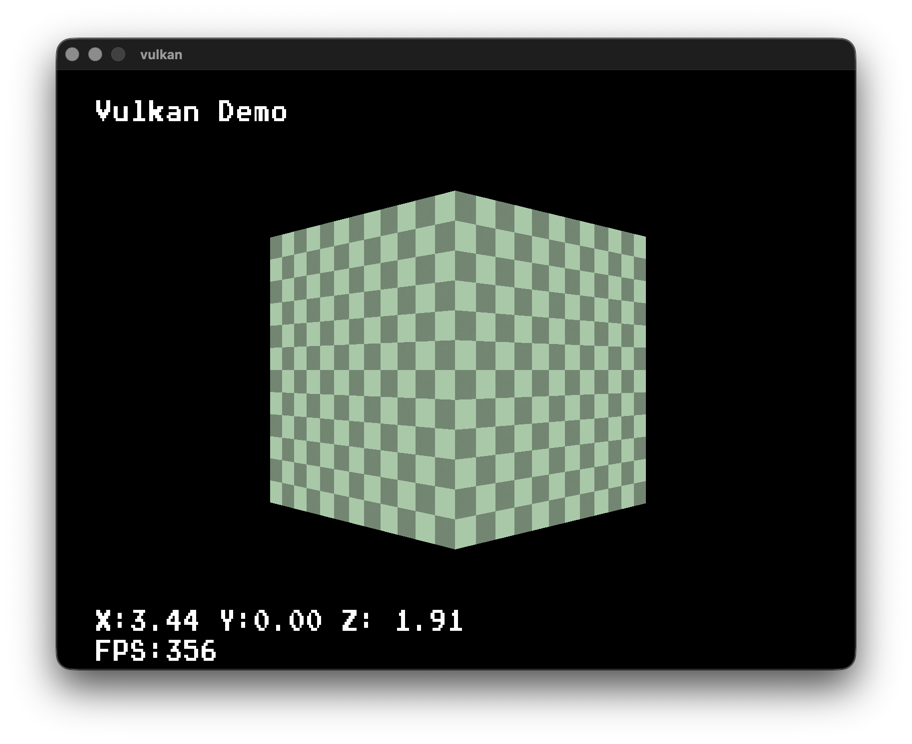
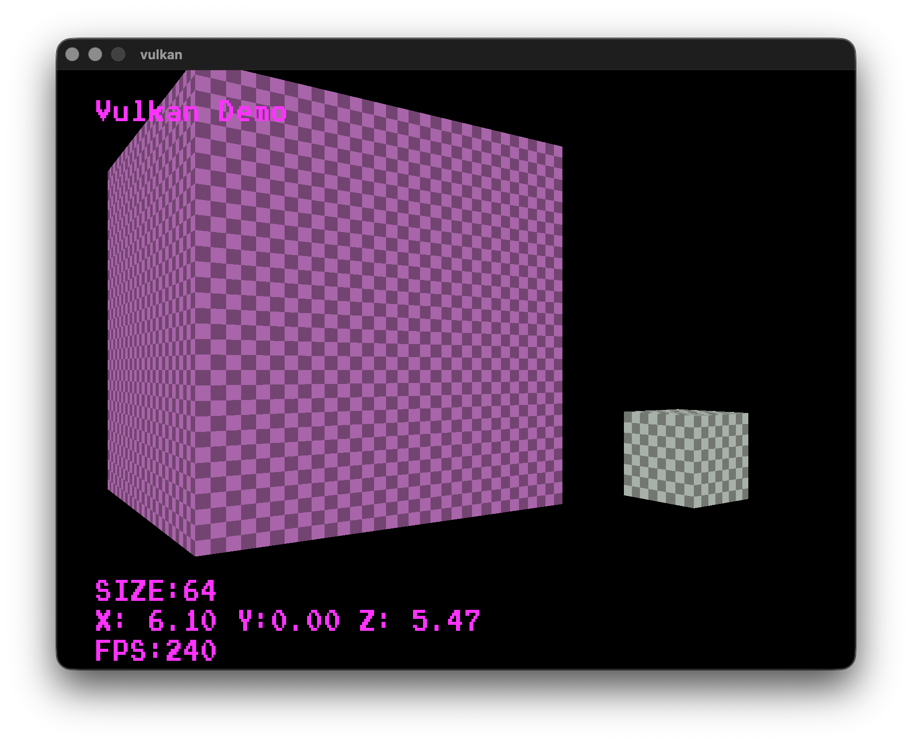
new screen

diff --git a/main.c b/main.c
@@ -41,7 +41,7 @@ void RENDER()
     }
 
     {
-        VK_TINT(1.0f, 1.0f, 1.0f, 1.0f);
+        VK_TINT(1.0f, 0.2f, 1.0f, 1.0f);
         mat4 proj;
         glm_ortho(-1.0f, 1.0f, -1.0f, 1.0f, -1.0f, 1.0f, proj);
 
